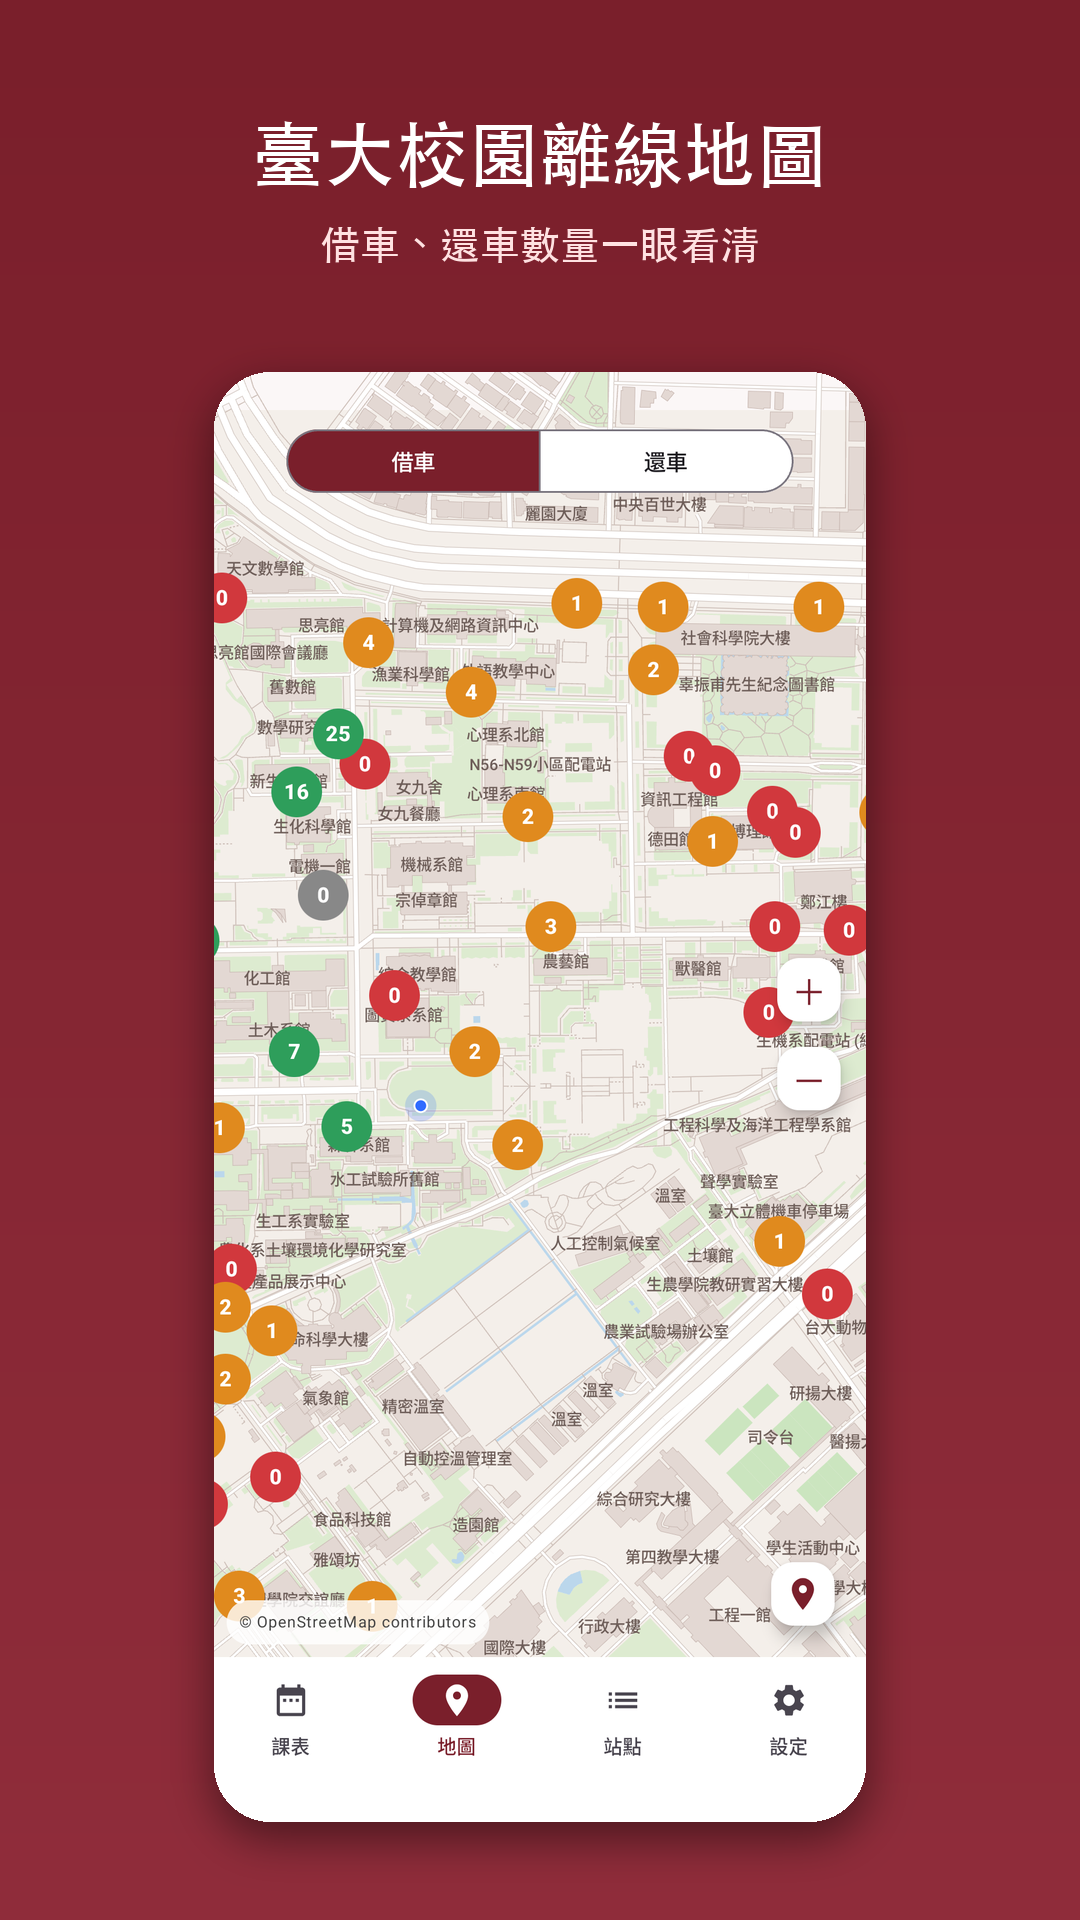
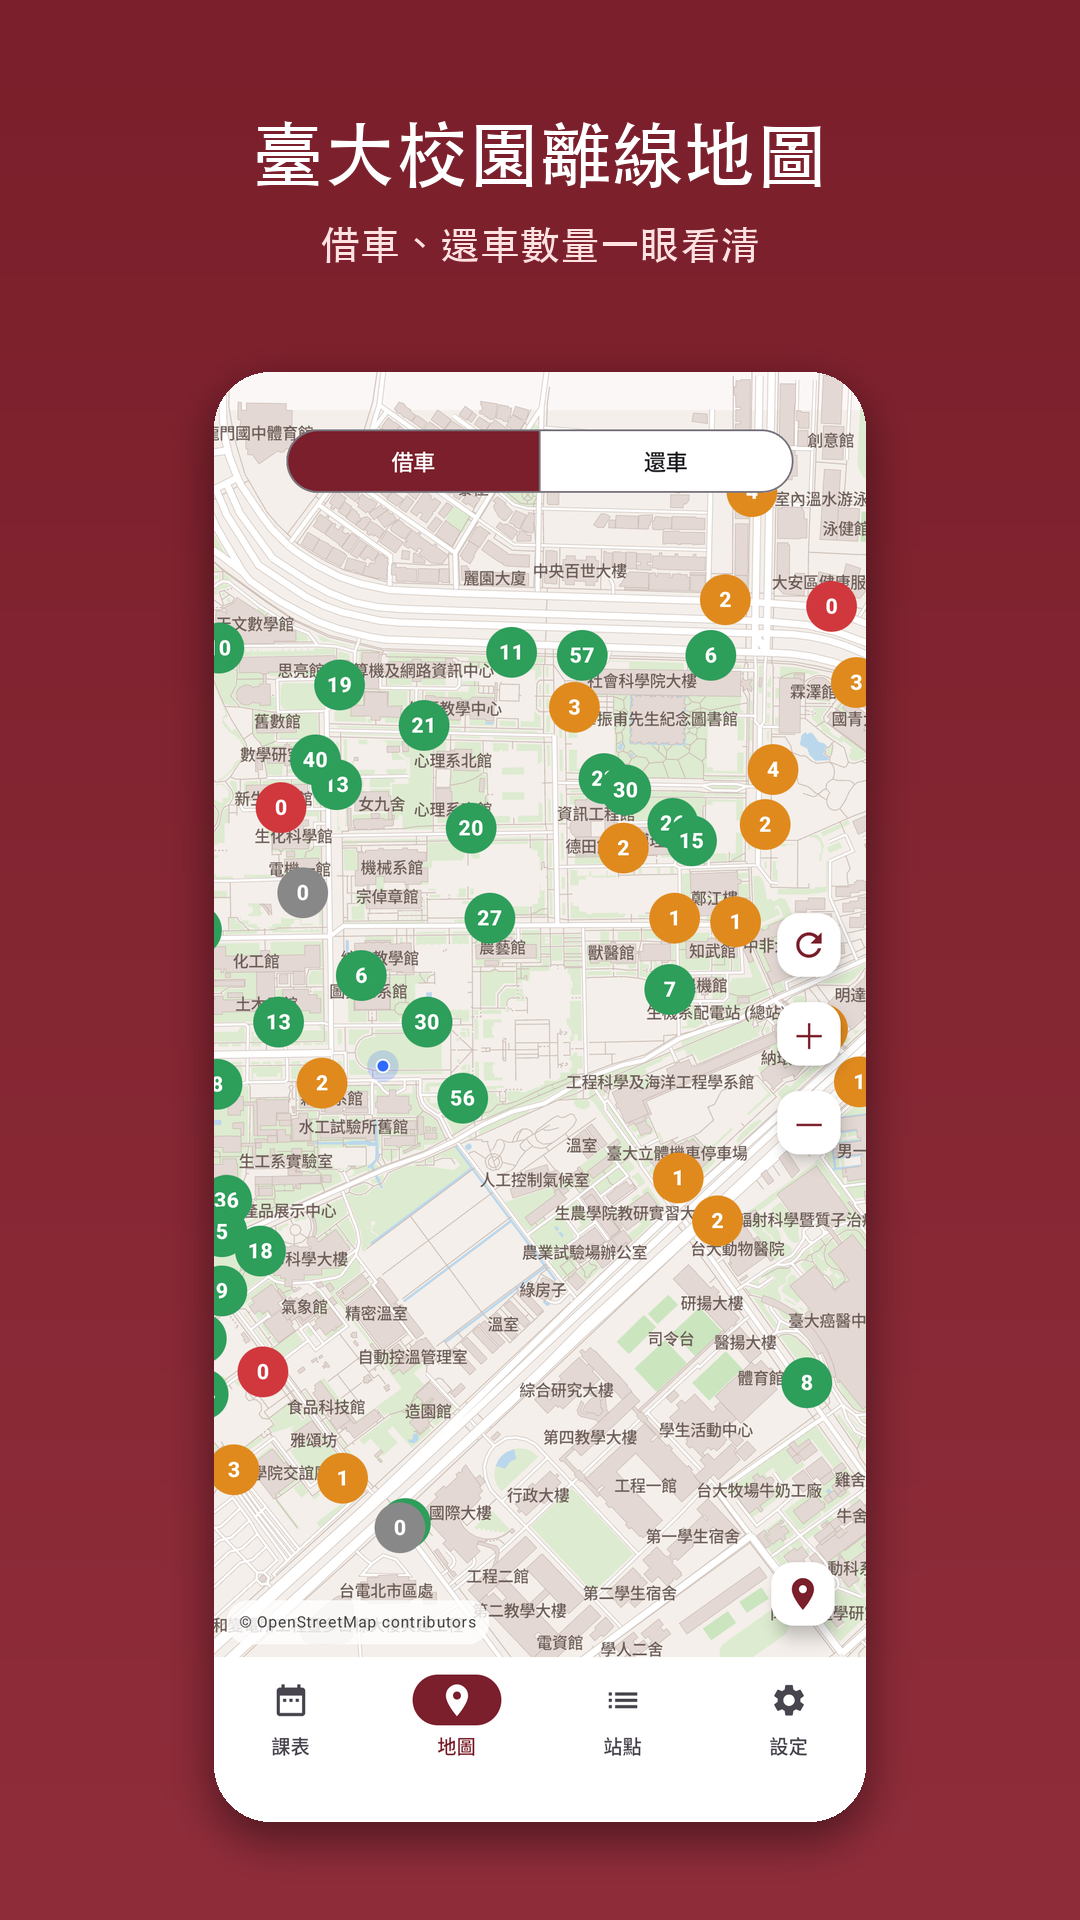
Refresh screenshots for 1.1 (iOS and Android)

Changed region(s): [[0.1833, 0.1875, 0.825, 0.875], [0.3361, 0.1875, 0.6111, 0.2188]]

diff --git a/README.en.md b/README.en.md
@@ -35,7 +35,8 @@ A reminder app for bike-sharing stations on the National Taiwan University (NTU)
 <p>
 <img src="screenshots/ios/01-schedule.png" width="220">
 <img src="screenshots/ios/02-map.png" width="220">
-<img src="screenshots/ios/03-stations.png" width="220">
+<img src="screenshots/ios/03-map-osm.png" width="220">
+<img src="screenshots/ios/04-stations.png" width="220">
 </p>
 
 **Android** (English UI)

diff --git a/README.md b/README.md
@@ -35,7 +35,8 @@ A class-schedule-aware reminder for bike-sharing stations on the NTU campus (Tai
 <p>
 <img src="screenshots/ios/01-schedule.png" width="220">
 <img src="screenshots/ios/02-map.png" width="220">
-<img src="screenshots/ios/03-stations.png" width="220">
+<img src="screenshots/ios/03-map-osm.png" width="220">
+<img src="screenshots/ios/04-stations.png" width="220">
 </p>
 
 **Android**

diff --git a/README.ja.md b/README.ja.md
@@ -35,7 +35,8 @@
 <p>
 <img src="screenshots/ios/01-schedule.png" width="220">
 <img src="screenshots/ios/02-map.png" width="220">
-<img src="screenshots/ios/03-stations.png" width="220">
+<img src="screenshots/ios/03-map-osm.png" width="220">
+<img src="screenshots/ios/04-stations.png" width="220">
 </p>
 
 **Android**（英語 UI）

diff --git a/README.ko.md b/README.ko.md
@@ -35,7 +35,8 @@
 <p>
 <img src="screenshots/ios/01-schedule.png" width="220">
 <img src="screenshots/ios/02-map.png" width="220">
-<img src="screenshots/ios/03-stations.png" width="220">
+<img src="screenshots/ios/03-map-osm.png" width="220">
+<img src="screenshots/ios/04-stations.png" width="220">
 </p>
 
 **Android** (영어 UI)
